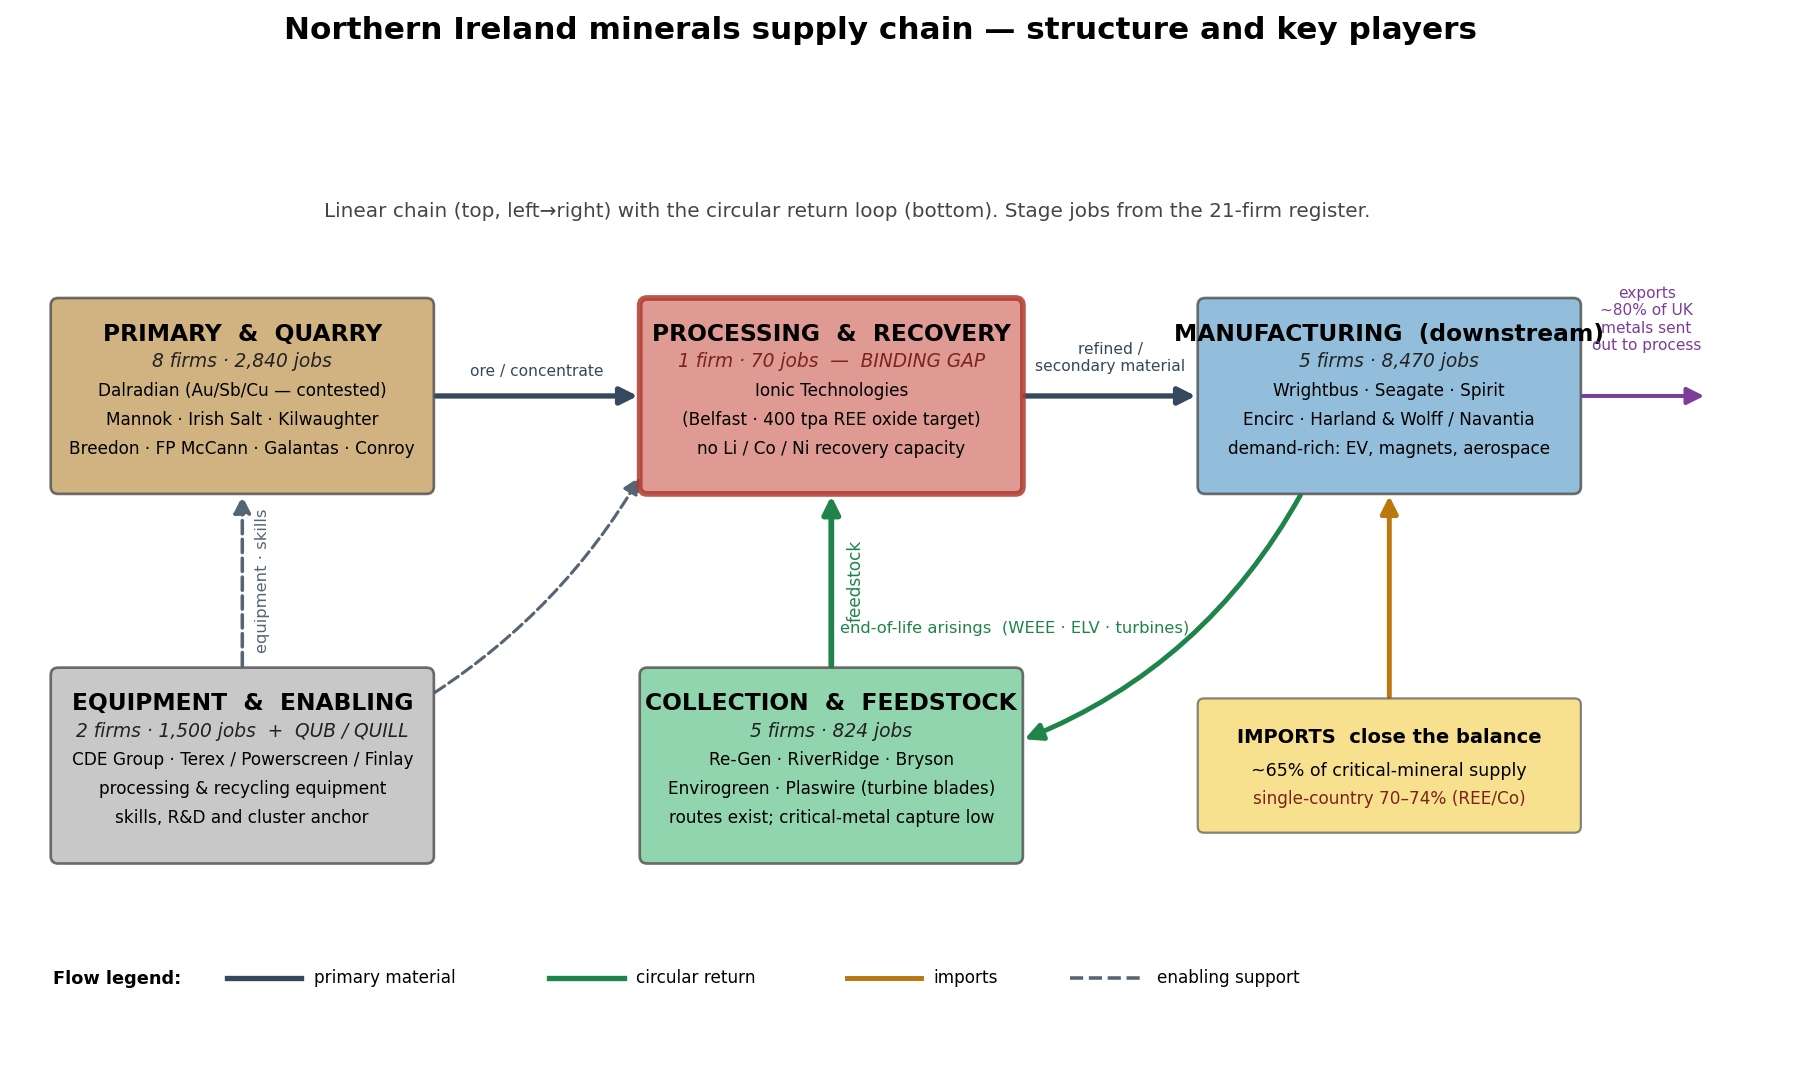
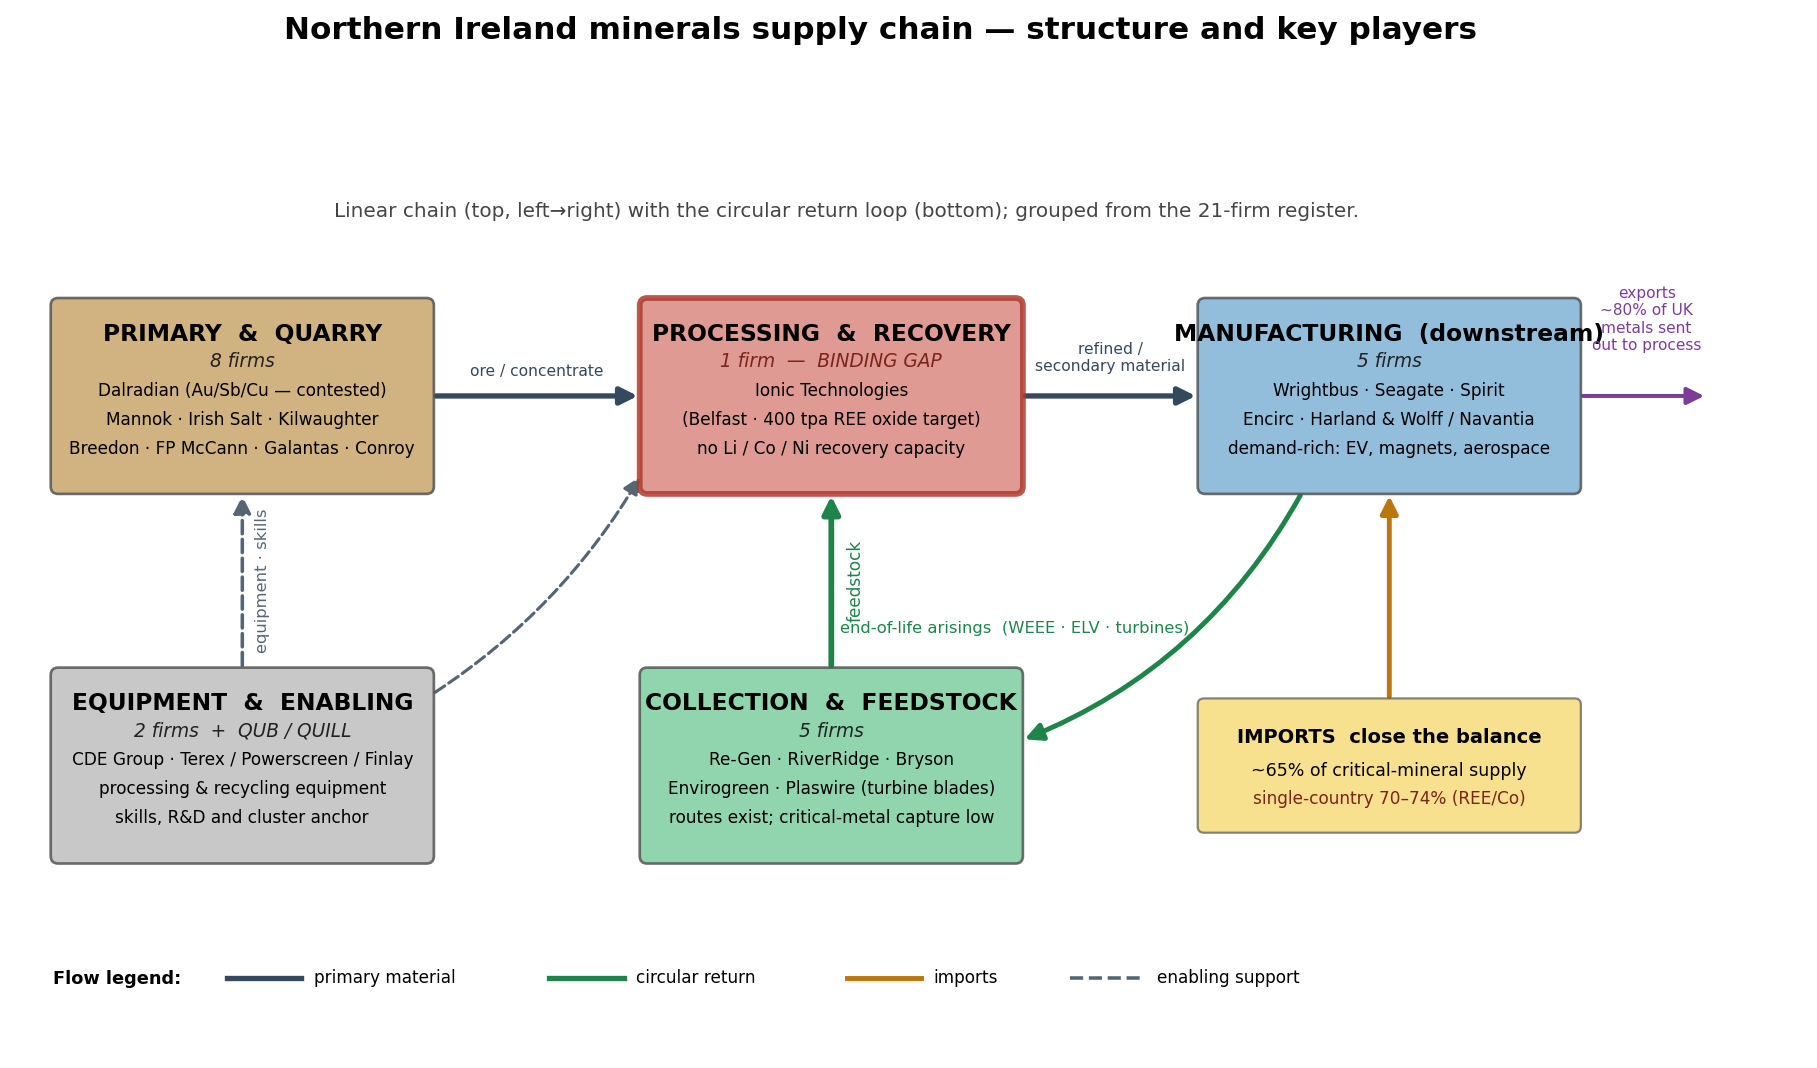
DfE response: add plain-English method/model/data annex; remove job counts from figure
- NI_DfE_Call_for_Evidence_Response: added "Annex A — How this evidence was
  produced (method, model and data, in plain terms)" for non-technical readers
  (A.1 comparing choices not forecasting; A.2 the four joined-up parts in plain
  language; A.3 solid vs estimated data + sources; A.4 how it was checked; A.5
  what it can/can't tell you), with a pointer to it from the top note.
- make_supply_chain_fig.py: removed the per-stage job counts from the supply-chain
  diagram (now shows firm counts only); regenerated fig0_supply_chain.png.
- Updated the model report's figure caption to match (no longer cites employment).
- Regenerated all 13 Word documents.

diff --git a/model/make_supply_chain_fig.py b/model/make_supply_chain_fig.py
@@ -23,27 +23,27 @@ os.makedirs(FIGDIR, exist_ok=True)
 # --- stage definitions (firm short-names grouped by the model's chain stages) ---
 STAGES = {
     "primary": dict(
-        title="PRIMARY  &  QUARRY", subtitle="8 firms · 2,840 jobs",
+        title="PRIMARY  &  QUARRY", subtitle="8 firms",
         firms=["Dalradian (Au/Sb/Cu — contested)", "Mannok · Irish Salt · Kilwaughter",
                "Breedon · FP McCann · Galantas · Conroy"],
         colour="#c9a66b"),
     "processing": dict(
-        title="PROCESSING  &  RECOVERY", subtitle="1 firm · 70 jobs  —  BINDING GAP",
+        title="PROCESSING  &  RECOVERY", subtitle="1 firm  —  BINDING GAP",
         firms=["Ionic Technologies", "(Belfast · 400 tpa REE oxide target)",
                "no Li / Co / Ni recovery capacity"],
         colour="#d98880"),
     "manufacturing": dict(
-        title="MANUFACTURING  (downstream)", subtitle="5 firms · 8,470 jobs",
+        title="MANUFACTURING  (downstream)", subtitle="5 firms",
         firms=["Wrightbus · Seagate · Spirit", "Encirc · Harland & Wolff / Navantia",
                "demand-rich: EV, magnets, aerospace"],
         colour="#7fb3d5"),
     "collection": dict(
-        title="COLLECTION  &  FEEDSTOCK", subtitle="5 firms · 824 jobs",
+        title="COLLECTION  &  FEEDSTOCK", subtitle="5 firms",
         firms=["Re-Gen · RiverRidge · Bryson", "Envirogreen · Plaswire (turbine blades)",
                "routes exist; critical-metal capture low"],
         colour="#7dcea0"),
     "enabling": dict(
-        title="EQUIPMENT  &  ENABLING", subtitle="2 firms · 1,500 jobs  +  QUB / QUILL",
+        title="EQUIPMENT  &  ENABLING", subtitle="2 firms  +  QUB / QUILL",
         firms=["CDE Group · Terex / Powerscreen / Finlay", "processing & recycling equipment",
                "skills, R&D and cluster anchor"],
         colour="#bfbfbf"),
@@ -78,8 +78,8 @@ def main():
 
     fig.suptitle("Northern Ireland minerals supply chain — structure and key players",
                  fontsize=14, fontweight="bold", y=0.985)
-    ax.text(6.7, 6.78, "Linear chain (top, left→right) with the circular return loop (bottom). "
-            "Stage jobs from the 21-firm register.", ha="center", fontsize=9, color="#444")
+    ax.text(6.7, 6.78, "Linear chain (top, left→right) with the circular return loop (bottom); "
+            "grouped from the 21-firm register.", ha="center", fontsize=9, color="#444")
 
     W, H = 3.05, 1.55
     # top linear chain

diff --git a/NI_DfE_Call_for_Evidence_Response.md b/NI_DfE_Call_for_Evidence_Response.md
@@ -17,7 +17,7 @@ This response is written for a general reader. Technical terms and abbreviations
 3. **The economic ripple effects** — a standard method (called **input–output analysis**) for working out the jobs and value created across the wider economy when one part grows.
 4. **The whole economy** — a model that lets prices and wages adjust, so the answers are economy-wide, not just for the mining sector.
 
-It runs over **30 years (2026–2055)**. Money figures are 30-year totals expressed in today's money, following standard UK Treasury (Green Book) guidance that values a pound next year slightly below a pound today (a "discount rate" of 3.5%).
+It runs over **30 years (2026–2055)**. Money figures are 30-year totals expressed in today's money, following standard UK Treasury (Green Book) guidance that values a pound next year slightly below a pound today (a "discount rate" of 3.5%). **A fuller, non-technical description of the method, model and data is in Annex A at the end of this response.**
 
 **How reliable is this?** The model is **checked against an independent study** (the Minviro 2022 report commissioned for this review) and reproduces its results, and it passes 61 automated quality checks every time it is run. But it is a **"what-if" tool, not a crystal ball**: the population totals and policy targets it uses are real and sourced, but many of the internal economic numbers are reasonable estimates rather than measured NI data. So please read the findings as showing the **direction, the ranking, and the rough scale** of each effect — which is robust — rather than exact predictions.
 
@@ -199,4 +199,52 @@ The five economic downsides are: **value "leaking" out of NI** (when outside fir
 
 ---
 
-*The method, data sources and assumptions behind this evidence are set out in an accompanying technical report, and the detailed figures in a fuller findings report; both can be supplied. All figures are model results under stated, partly-estimated assumptions and are offered as **evidence on the likely direction and scale** of each effect, not as precise forecasts. We would welcome the chance to refine the model with the Department's own data so it can become a fully calibrated decision tool.*
+## Annex A — How this evidence was produced (the method, model and data, in plain terms)
+
+*This annex explains, without technical jargon, how the figures in this response were produced. A full technical report with the underlying detail can be supplied.*
+
+### A.1 The method — comparing choices, not predicting the future
+
+We did **not** try to forecast exactly what will happen. Instead, we built a working model of Northern Ireland's minerals system and used it to **compare different policy choices over 30 years**, asking a simple question each time: *which choice leaves NI better off?* Each model run is one complete, internally-consistent "story" of how the system would behave under one set of policies (for example, "recycling-led" versus "mining-led" versus "do nothing"). We then compare the stories side by side. This is why the response talks about the **direction and ranking** of options rather than precise predictions.
+
+### A.2 The model — four joined-up parts
+
+The model links four parts, each a well-established technique, so that a decision in one place flows through to the others:
+
+1. **The companies (a decision simulation).** We represent **21 real, named Northern Ireland businesses** and let each one make its own decisions year by year — for example, whether to develop a mine (which only goes ahead if it is *both* commercially worthwhile *and* accepted by the local community), whether to invest in recycling, and how much recycled material to use. Each company's choices depend on its own real situation (its size, location and stage of development) and on whichever government policies are switched on in that run.
+
+2. **The materials stock-take.** For each of the ten minerals tracked, the model keeps a year-by-year tally of how much is needed, how much is mined in NI, how much is recycled, how much is imported, and any shortfall. Like a set of accounts, these figures must always add up — a basic check that the physical picture is consistent.
+
+3. **The economic ripple-effect calculator.** When one part of the economy grows, it creates work for suppliers and, through the wages it pays, for shops and services too. We use the **standard official method ("input–output" analysis)** that governments worldwide use to estimate these knock-on jobs and value — not just the direct jobs in mining or recycling.
+
+4. **The whole-economy model.** Finally, a model of the wider NI economy lets **prices and wages adjust**, so the results reflect an economy that responds (for example, a mining boom can push up local wages), rather than a fixed snapshot.
+
+These parts feed into one another: the companies' decisions drive the materials stock-take; that drives the economic calculators; and the results feed back (for instance, higher wages make it harder to staff a mine). A final step shares the resulting jobs across Northern Ireland's 11 council areas, which is how we can say where the growth lands.
+
+### A.3 The data — what is solid, and what is estimated
+
+**Solid, sourced figures** (the anchors the model is built around):
+- the **independent Minviro (2022) study** commissioned for this very review — the model is tuned to reproduce its results, so it starts from a recognised baseline;
+- **official NISRA statistics** (Northern Ireland Statistics and Research Agency) for jobs, the typical wage (£37,100 a year, 2025) and trade;
+- the **UK Critical Minerals Strategy (Vision 2035)** for the official targets and the projected growth in demand;
+- **International Energy Agency** evidence on how concentrated world mineral supply is (for example, that one country supplies most rare earths);
+- a **register of 21 real NI companies** that we compiled from public sources; and
+- the published resource figures for the **Curraghinalt** deposit.
+
+**Estimated, illustrative figures.** Some of the model's internal economic ratios — for example, exactly how much each industry buys from every other — are **reasonable estimates rather than measured Northern Ireland data**, because a full NI-specific economic table does not yet exist publicly. Every such value is clearly flagged in the model's data register, with its source and status. This is the main reason we present the findings as showing direction and scale rather than exact pounds.
+
+### A.4 How we checked the model
+
+- It **reproduces the independent Minviro results** on a like-for-like basis (a confidence check against outside evidence).
+- It passes **61 automatic quality checks every time it runs** — for example, that the materials always add up, that nothing turns negative, and that the same inputs always give exactly the same answer.
+- It is **transparent and repeatable**: anyone with the model gets identical numbers, so the evidence can be independently checked.
+
+### A.5 What this evidence can — and cannot — tell you
+
+- **It can** show the *direction* of each effect, the *ranking* of policy options, and the *rough scale* of the benefits and downsides. These are robust.
+- **It cannot** give precise, pound-for-pound forecasts of the future.
+- **To go further:** with the Department's own data — a Northern Ireland economic table, NI recycling and waste figures, and a short survey of the firms involved — the model could be turned into a **fully calibrated decision tool** for appraising specific proposals.
+
+---
+
+*The detailed figures behind each answer, and the full technical and method documentation, can be supplied on request. All figures are model results under stated, partly-estimated assumptions and are offered as **evidence on the likely direction and scale** of each effect, not as precise forecasts. We would welcome the chance to refine the model with the Department's own data so it can become a fully calibrated decision tool.*

diff --git a/NI_MINERALS_MODEL_REPORT.md b/NI_MINERALS_MODEL_REPORT.md
@@ -36,7 +36,7 @@ primary extraction → processing/refining → manufacturing use → in-use stoc
 
 The model is populated from a register of 21 named NI operators (`company_register.csv`), grouped into the five supply-chain stages below. The single most important structural fact — which drives most of the findings — is the **midstream bottleneck**: NI has strong upstream extraction and very strong downstream manufacturing demand, but only **one** critical-mineral processing/recovery asset (Ionic Technologies, 70 staff).
 
-![Figure 1. NI minerals supply chain — structure and key players. Linear chain (top, left→right) with the circular return loop (bottom). Stage employment is summed from the 21-firm register. The midstream processing/recovery stage is the binding gap.](model/outputs/figures/fig0_supply_chain.png)
+![Figure 1. NI minerals supply chain — structure and key players. Linear chain (top, left→right) with the circular return loop (bottom); stages grouped from the 21-firm register. The midstream processing/recovery stage is the binding gap.](model/outputs/figures/fig0_supply_chain.png)
 
 | Stage | Firms | Jobs | Key named players | Role in model |
 |---|---|---|---|---|